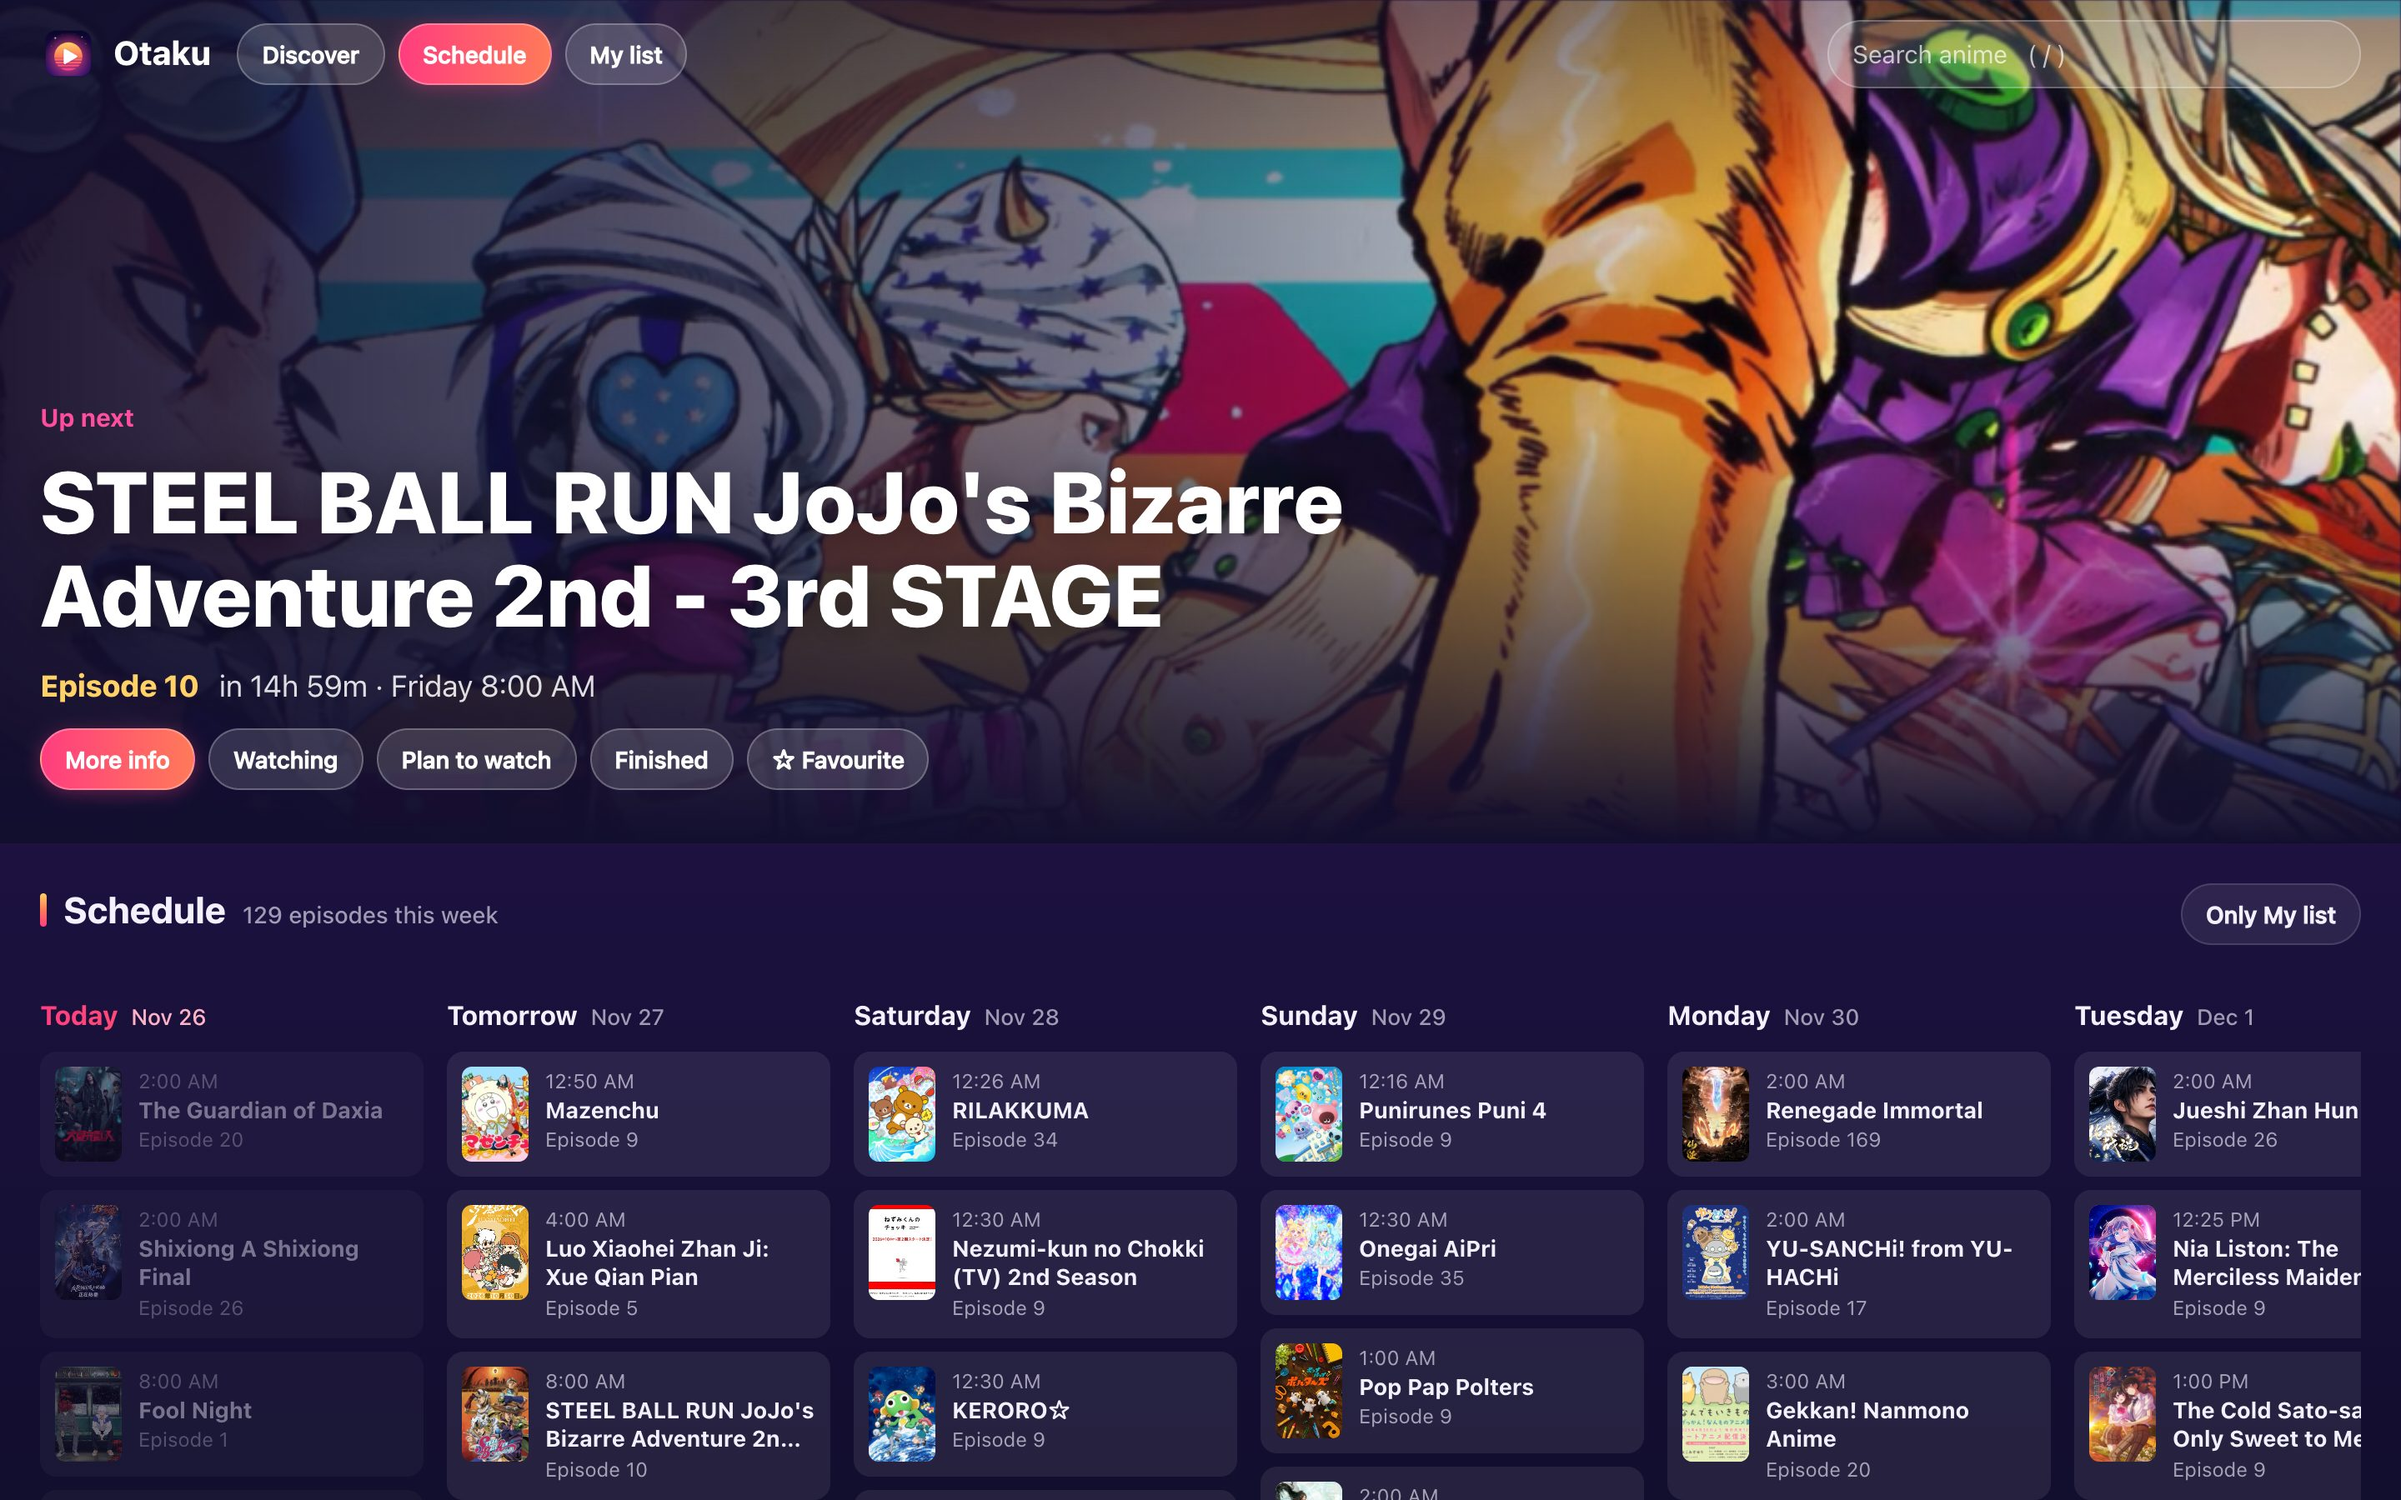
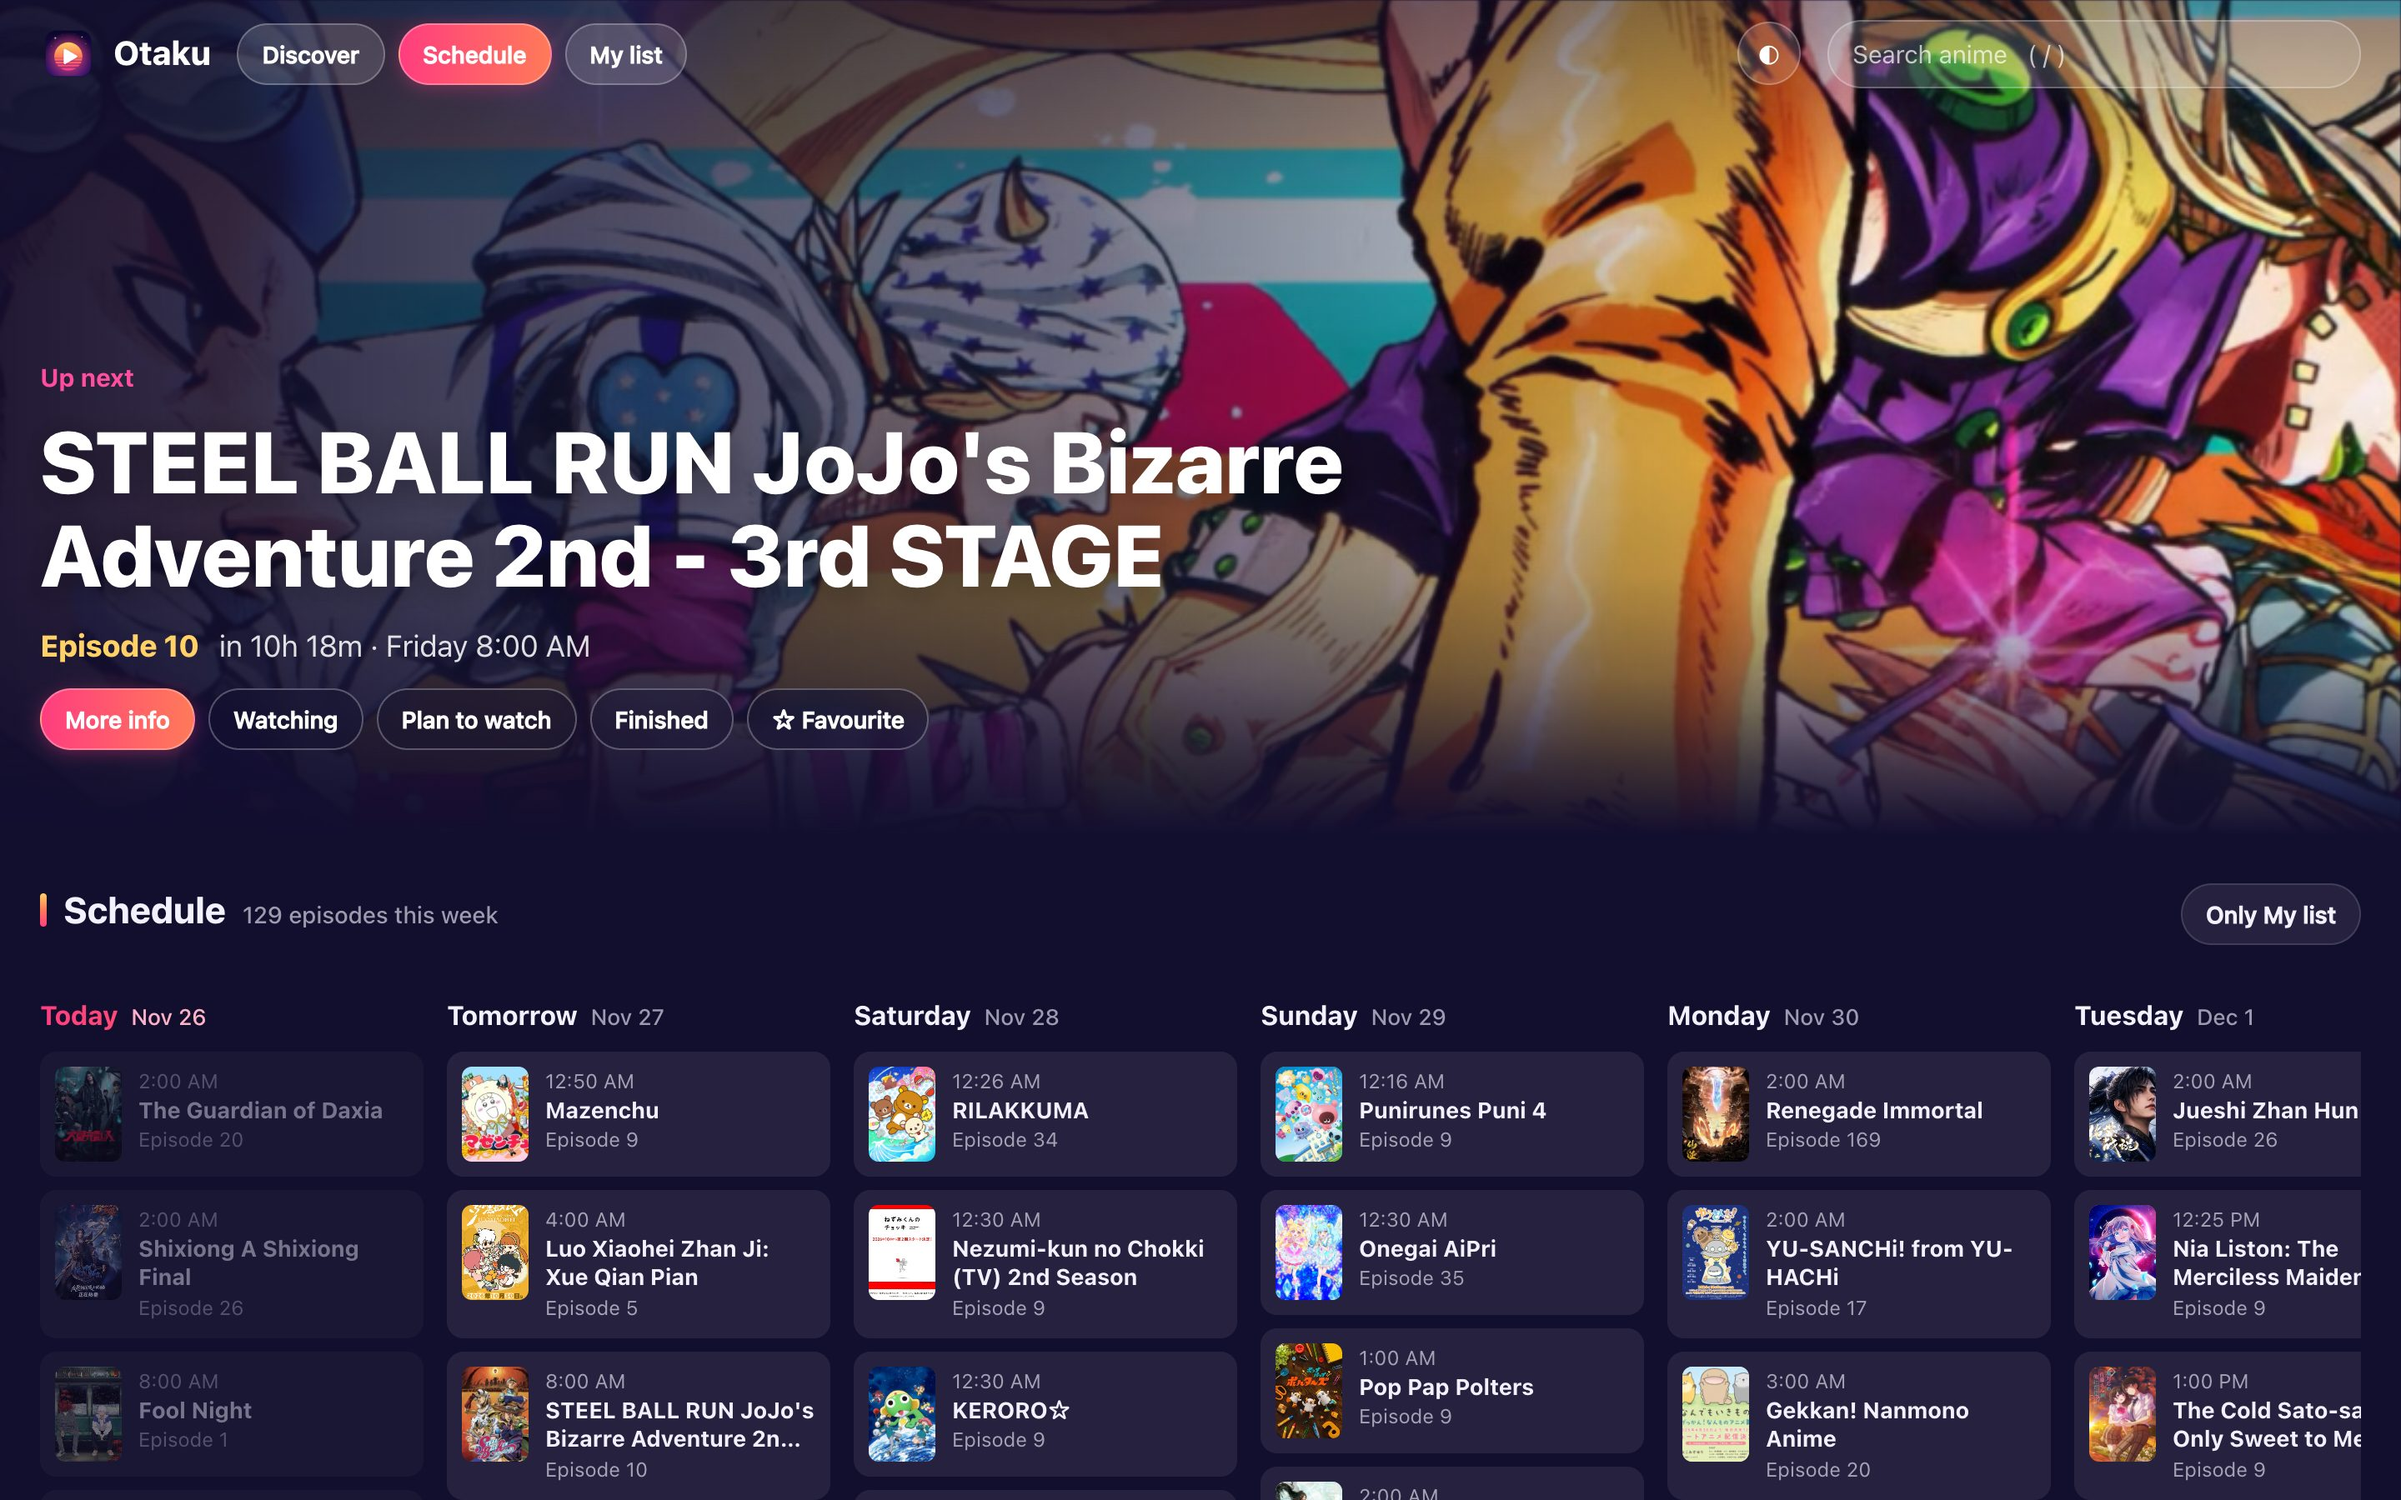
Hero fades into the page with no seam; darker glass chips on heroes for light mode

Changed region(s): [[0.0, 0.2489, 1.0, 0.5289], [0.7188, 0.0, 0.75, 0.0622]]

diff --git a/frontend/src/styles.css b/frontend/src/styles.css
@@ -49,6 +49,8 @@ body {
   font: 15px/1.5 -apple-system, BlinkMacSystemFont, "Inter", "Segoe UI", Roboto, sans-serif;
   -webkit-font-smoothing: antialiased;
 }
+/* Under a full-width picture the sky starts below it, so the picture fades into the page's own colour. */
+body:has(.top + .hero, .top + .carousel) { background: var(--sky-bottom); }
 a { color: inherit; text-decoration: none; }
 button, select, input { font: inherit; color: inherit; }
 h1, h2 { margin: 0; }
@@ -156,18 +158,22 @@ footer a { text-decoration: underline; }
 .hero-picture { position: absolute; inset: 0; }
 .hero-picture img.from-poster { object-position: top; filter: blur(2px); transform: scale(1.05); }
 .hero-shade { position: absolute; inset: 0;
-  background: linear-gradient(90deg, rgba(18, 14, 46, 0.93), rgba(18, 14, 46, 0.55) 45%, transparent 80%),
-              linear-gradient(180deg, rgba(18, 14, 46, 0.4), transparent 25%, transparent 50%, var(--sky-bottom)); }
-.hero-body { position: absolute; left: 0; right: 0; bottom: 0; padding: 32px 24px; max-width: 1800px; margin: 0 auto;
+  /* The bottom fade goes on top of the side shade, eased, ending in exactly the page's colour so there's no seam. */
+  background: linear-gradient(180deg, transparent 55%, color-mix(in srgb, var(--sky-bottom) 12%, transparent) 68%, color-mix(in srgb, var(--sky-bottom) 40%, transparent) 80%,
+                color-mix(in srgb, var(--sky-bottom) 75%, transparent) 90%, var(--sky-bottom) 99%),
+              linear-gradient(90deg, rgba(18, 14, 46, 0.93), rgba(18, 14, 46, 0.55) 45%, transparent 80%),
+              linear-gradient(180deg, rgba(18, 14, 46, 0.4), transparent 25%); }
+.hero-body { position: absolute; left: 0; right: 0; bottom: 0; padding: 32px 24px 56px; max-width: 1800px; margin: 0 auto;
   display: flex; flex-direction: column; gap: 12px; }
 .hero h1 { font-size: clamp(30px, 4.2vw, 52px); font-weight: 850; line-height: 1.08; max-width: 900px; text-shadow: 0 2px 18px rgba(0, 0, 0, 0.4); }
-.hero .chip:not(.active) { background: rgba(255, 255, 255, 0.14); border-color: rgba(255, 255, 255, 0.25); color: #fff; }
+.hero .chip:not(.active) { background: rgba(18, 14, 46, 0.35); border-color: rgba(255, 255, 255, 0.28); color: #fff; backdrop-filter: blur(8px); }
 .kicker { font-weight: 700; background: var(--sunset); -webkit-background-clip: text; background-clip: text; color: transparent; filter: brightness(1.25); }
 .facts { display: flex; gap: 12px; font-size: 18px; color: rgba(255, 255, 255, 0.86); flex-wrap: wrap; }
 .facts .score { font-weight: 800; }
 .page .facts { color: var(--muted); }
 .genres { display: flex; gap: 6px; flex-wrap: wrap; }
 .tag { font-size: 12px; font-weight: 650; padding: 3px 10px; border-radius: 999px; background: rgba(255, 255, 255, 0.13); border: 1px solid rgba(255, 255, 255, 0.2); }
+.hero .tag { background: rgba(18, 14, 46, 0.35); border-color: rgba(255, 255, 255, 0.28); }
 .hero-synopsis { max-width: 640px; margin: 0; color: rgba(255, 255, 255, 0.85); display: -webkit-box; -webkit-line-clamp: 3; -webkit-box-orient: vertical; overflow: hidden; }
 .hero-head { display: flex; gap: 28px; align-items: flex-end; }
 .hero-head > div { display: flex; flex-direction: column; gap: 12px; }
